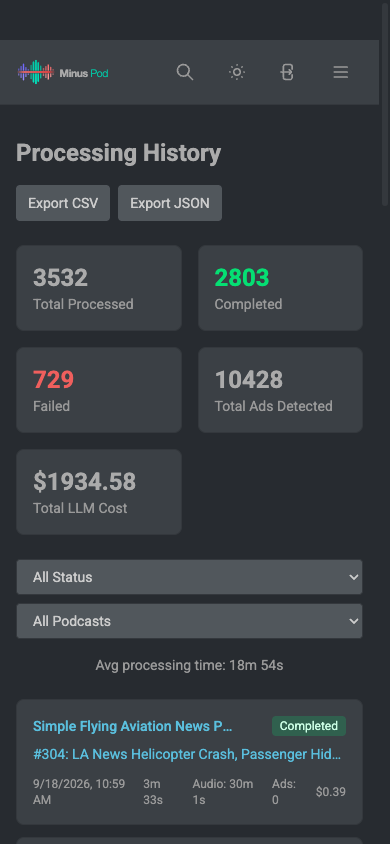
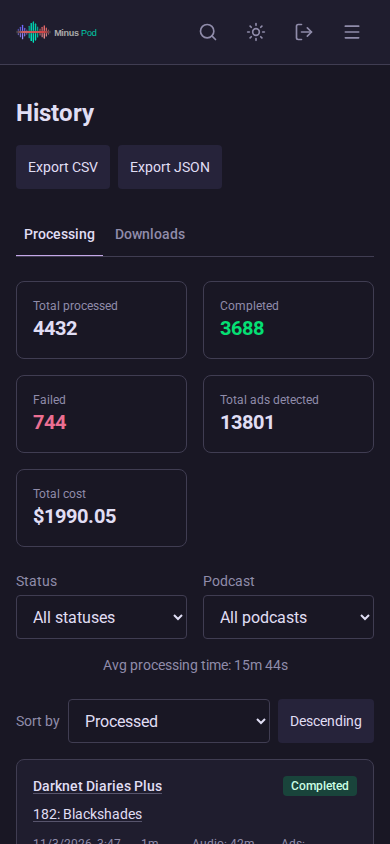
Refresh screenshots in Rose Pine and add the Queue page
Captured at 1280x900 and 390x844 in dark mode with the feed URL and
subscriber key replaced by placeholders.

diff --git a/README.md b/README.md
@@ -5,9 +5,9 @@
 MinusPod is a self-hosted server that strips ads from podcasts and YouTube shows before you hit play. Point it at an RSS feed, playlist or channel and subscribe to the feed it serves. Podcasts are transcribed locally (faster-whisper, Parakeet or a remote API) and an LLM cuts the ads. Your corrections become patterns that catch repeat sponsors without another LLM call. YouTube audio comes through yt-dlp and SponsorBlock marks decide the cuts. Bring your own LLM: Claude, Ollama, OpenRouter, OpenAI-compatible providers or System One.
 
 <p align="center">
-  <img src="docs/screenshots/dashboard-desktop-hulu.png" alt="MinusPod dashboard on desktop" width="600" />
+  <img src="docs/screenshots/dashboard-desktop-rose-pine.png" alt="MinusPod dashboard on desktop" width="600" />
   &nbsp;
-  <img src="docs/screenshots/dashboard-mobile-hulu.png" alt="MinusPod dashboard on mobile" width="185" />
+  <img src="docs/screenshots/dashboard-mobile-rose-pine.png" alt="MinusPod dashboard on mobile" width="185" />
 </p>
 
 A tour of the web UI. More videos, portrait cuts and the files themselves in [docs/videos](docs/videos/README.md).

diff --git a/CHANGELOG.md b/CHANGELOG.md
@@ -44,6 +44,7 @@ release notes.
 
 ### Changed
 
+- Screenshots in the README and web interface docs are refreshed in the Rose Pine theme, with a Queue page pair added.
 - Feed cards, feed list rows and the feed page lead with artwork and title. Refresh and Delete are outline buttons in their accent hues, Copy URL keeps its label on phones, and each card shows a processed-of-total bar under the status pills.
 - A 5-star episode rating also dismisses the episode's held-for-review ads,
   without recording a rejection pattern, so the review chip clears and the

diff --git a/docs/web-interface.md b/docs/web-interface.md
@@ -429,6 +429,11 @@ A row of section links sits under the Stats heading and jumps straight to Overvi
 |---------|--------|
 | <img src="screenshots/stats-desktop.png" width="500"> | <img src="screenshots/stats-mobile.png" width="200"> |
 
+#### Queue
+| Desktop | Mobile |
+|---------|--------|
+| <img src="screenshots/queue-desktop.png" width="500"> | <img src="screenshots/queue-mobile.png" width="200"> |
+
 #### Settings
 | Desktop | Mobile |
 |---------|--------|
